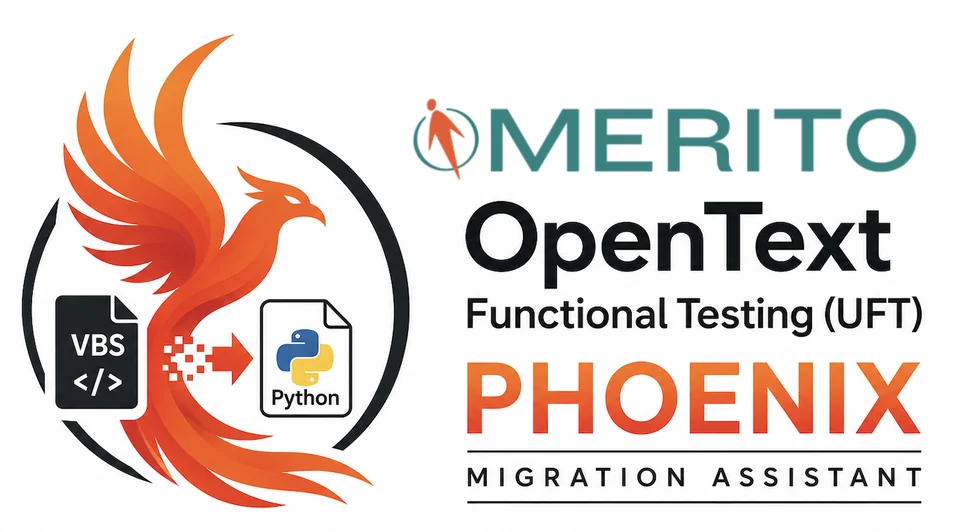
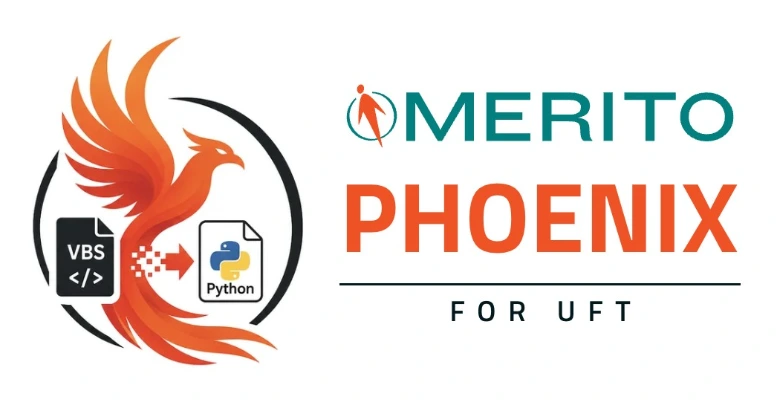
Preview of docs from feature/P4UFT-18-gov-terms-and-docs-header (source fc10d60)

Changed region(s): [[0.0, 0.0599, 0.9821, 0.9576], [0.1841, 0.4788, 0.2148, 0.5087]]

diff --git a/preview/README.md b/preview/README.md
@@ -5,13 +5,13 @@
 
 > [!WARNING]
 > **Preview — under review.** This is a pre-release preview of the Merito Phoenix for UFT
-> documentation, published from an unmerged change (branch feature/P4UFT-18-gov-terms-and-docs-header, commit 80f7655, published 2026-11-18 00:40 UTC). It is not a
+> documentation, published from an unmerged change (branch feature/P4UFT-18-gov-terms-and-docs-header, commit fc10d60, published 2026-11-18 00:41 UTC). It is not a
 > release and may change or be withdrawn.
 
 
 <p align="center">
   <a href="https://merito-solutions.github.io/merito-phoenix-for-uft-docs/preview/">
-    <img src="docs/assets/hero.webp" alt="Merito Phoenix for UFT — Migration Assistant for OpenText Functional Testing (UFT)" width="640">
+    <img src="docs/assets/hero.webp" alt="Merito Phoenix for UFT" width="640">
   </a>
 </p>
 

diff --git a/preview/docs/index.md b/preview/docs/index.md
@@ -7,7 +7,7 @@ hide:
 ---
 
 <p align="center">
-  <img src="assets/hero.webp" alt="Merito Phoenix for UFT — Migration Assistant for OpenText Functional Testing (UFT)" width="720">
+  <img src="assets/hero.webp" alt="Merito Phoenix for UFT" width="720">
 </p>
 
 # Move your UFT One tests from VBScript to Python { .phoenix-headline }
